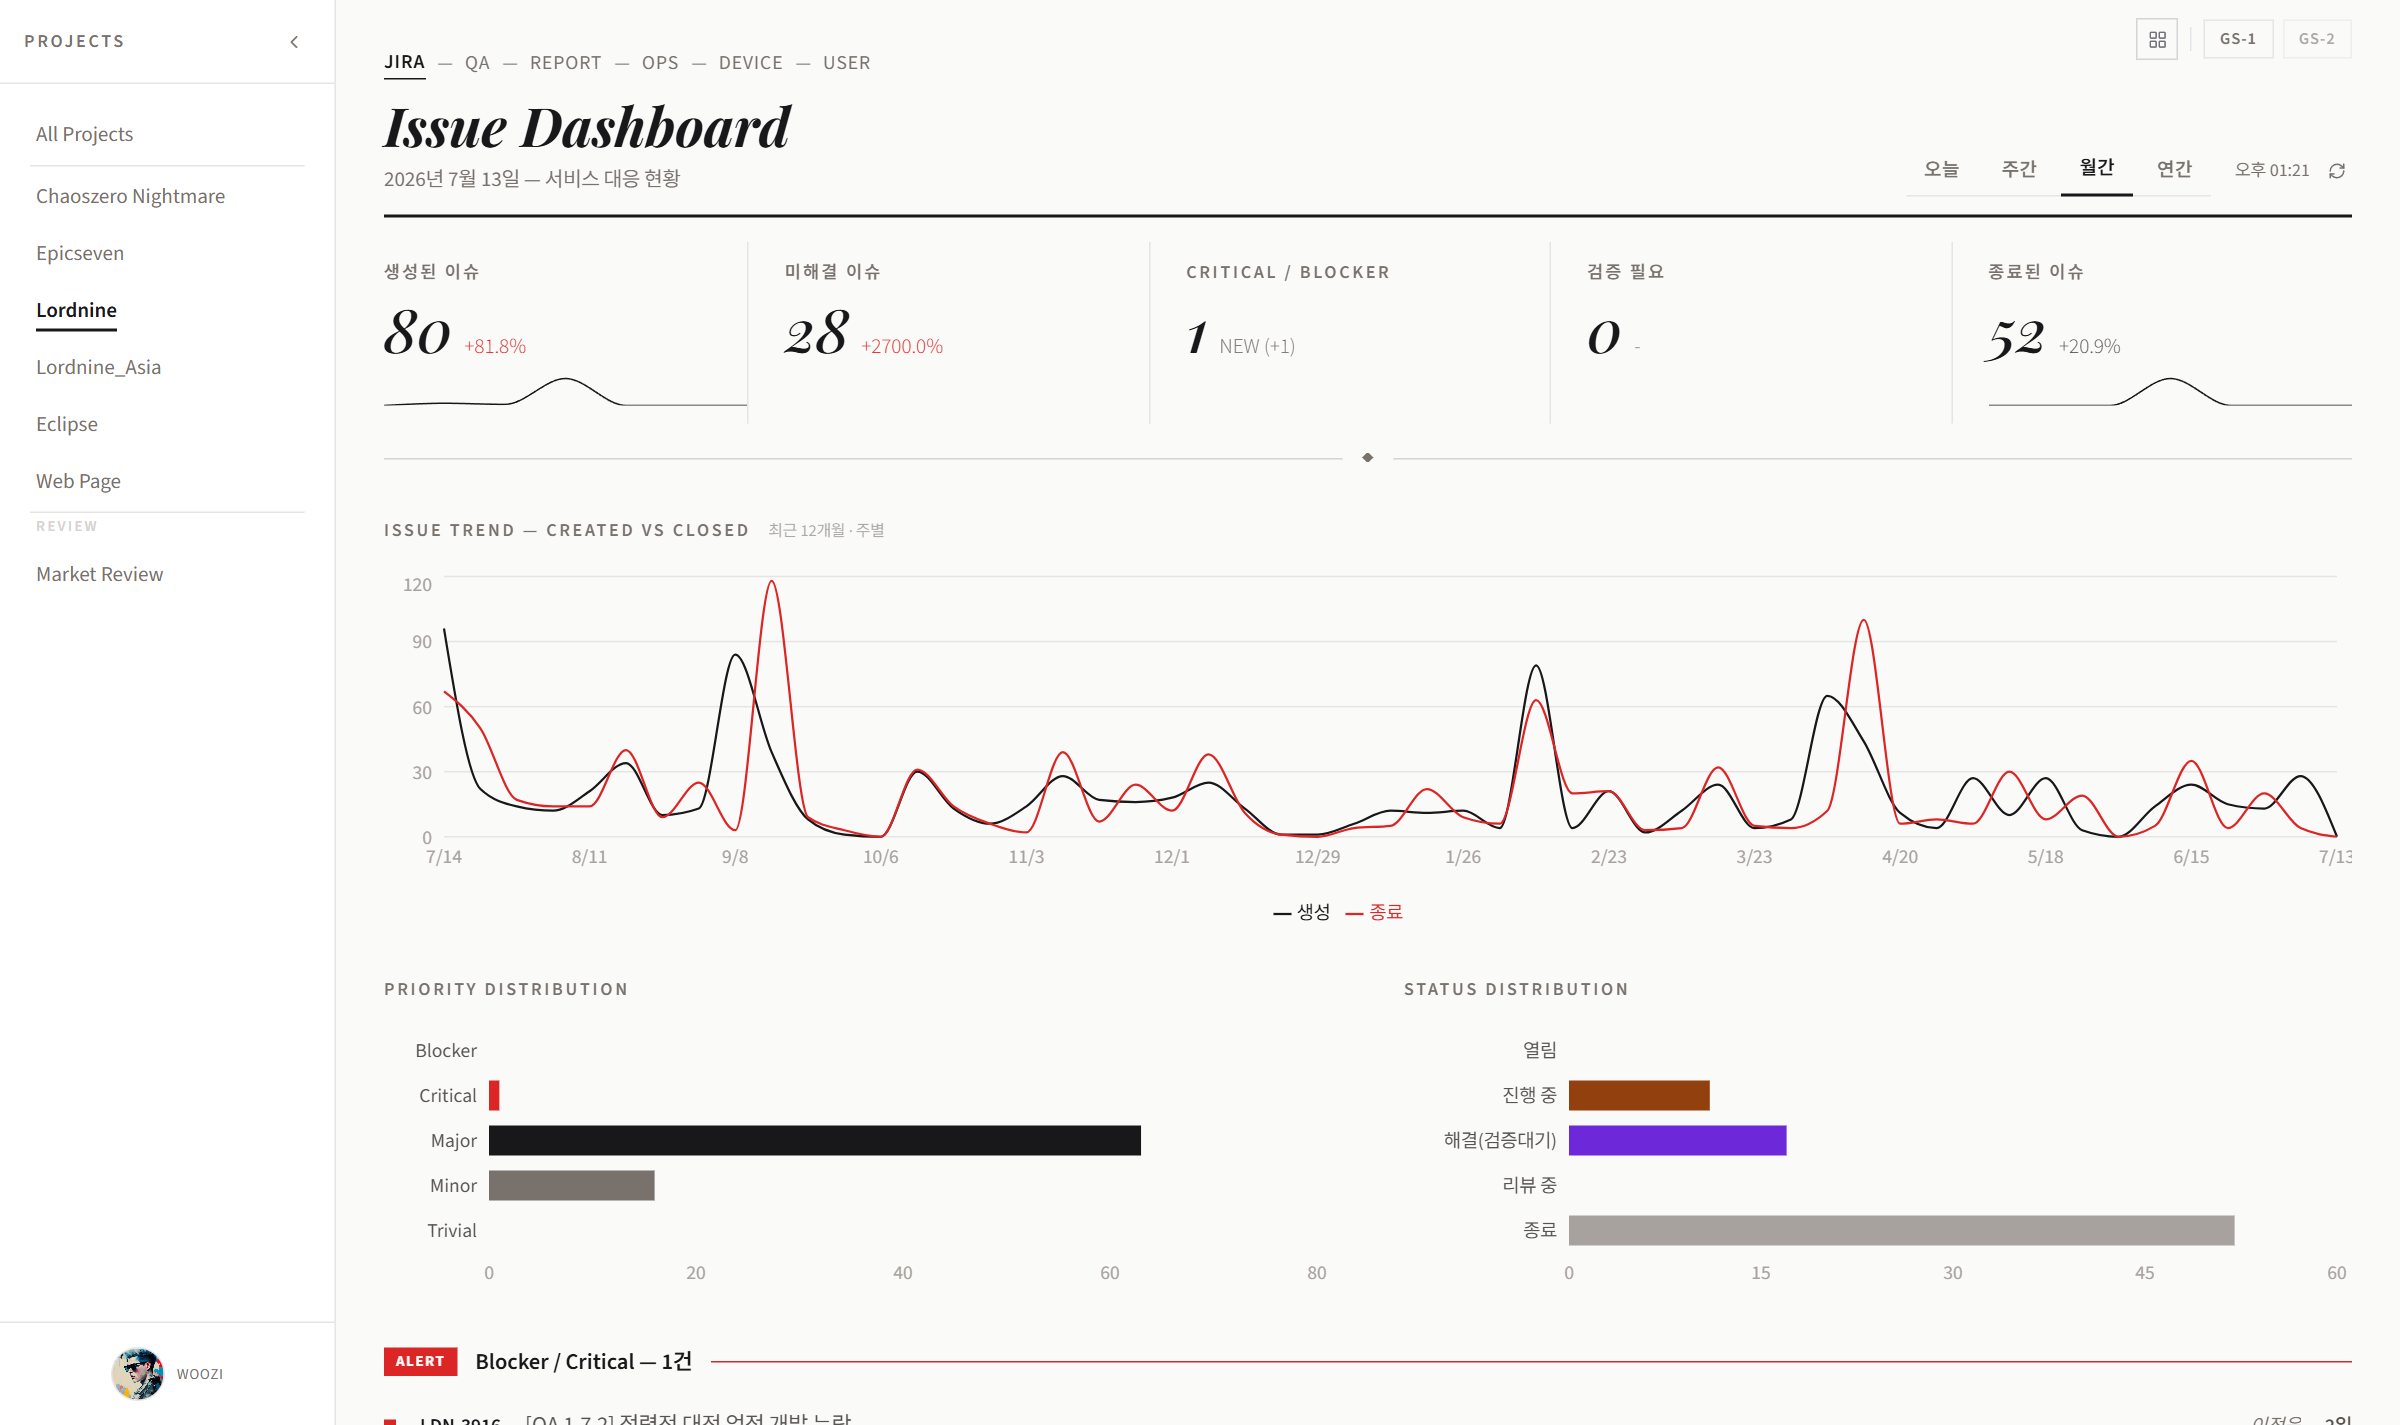
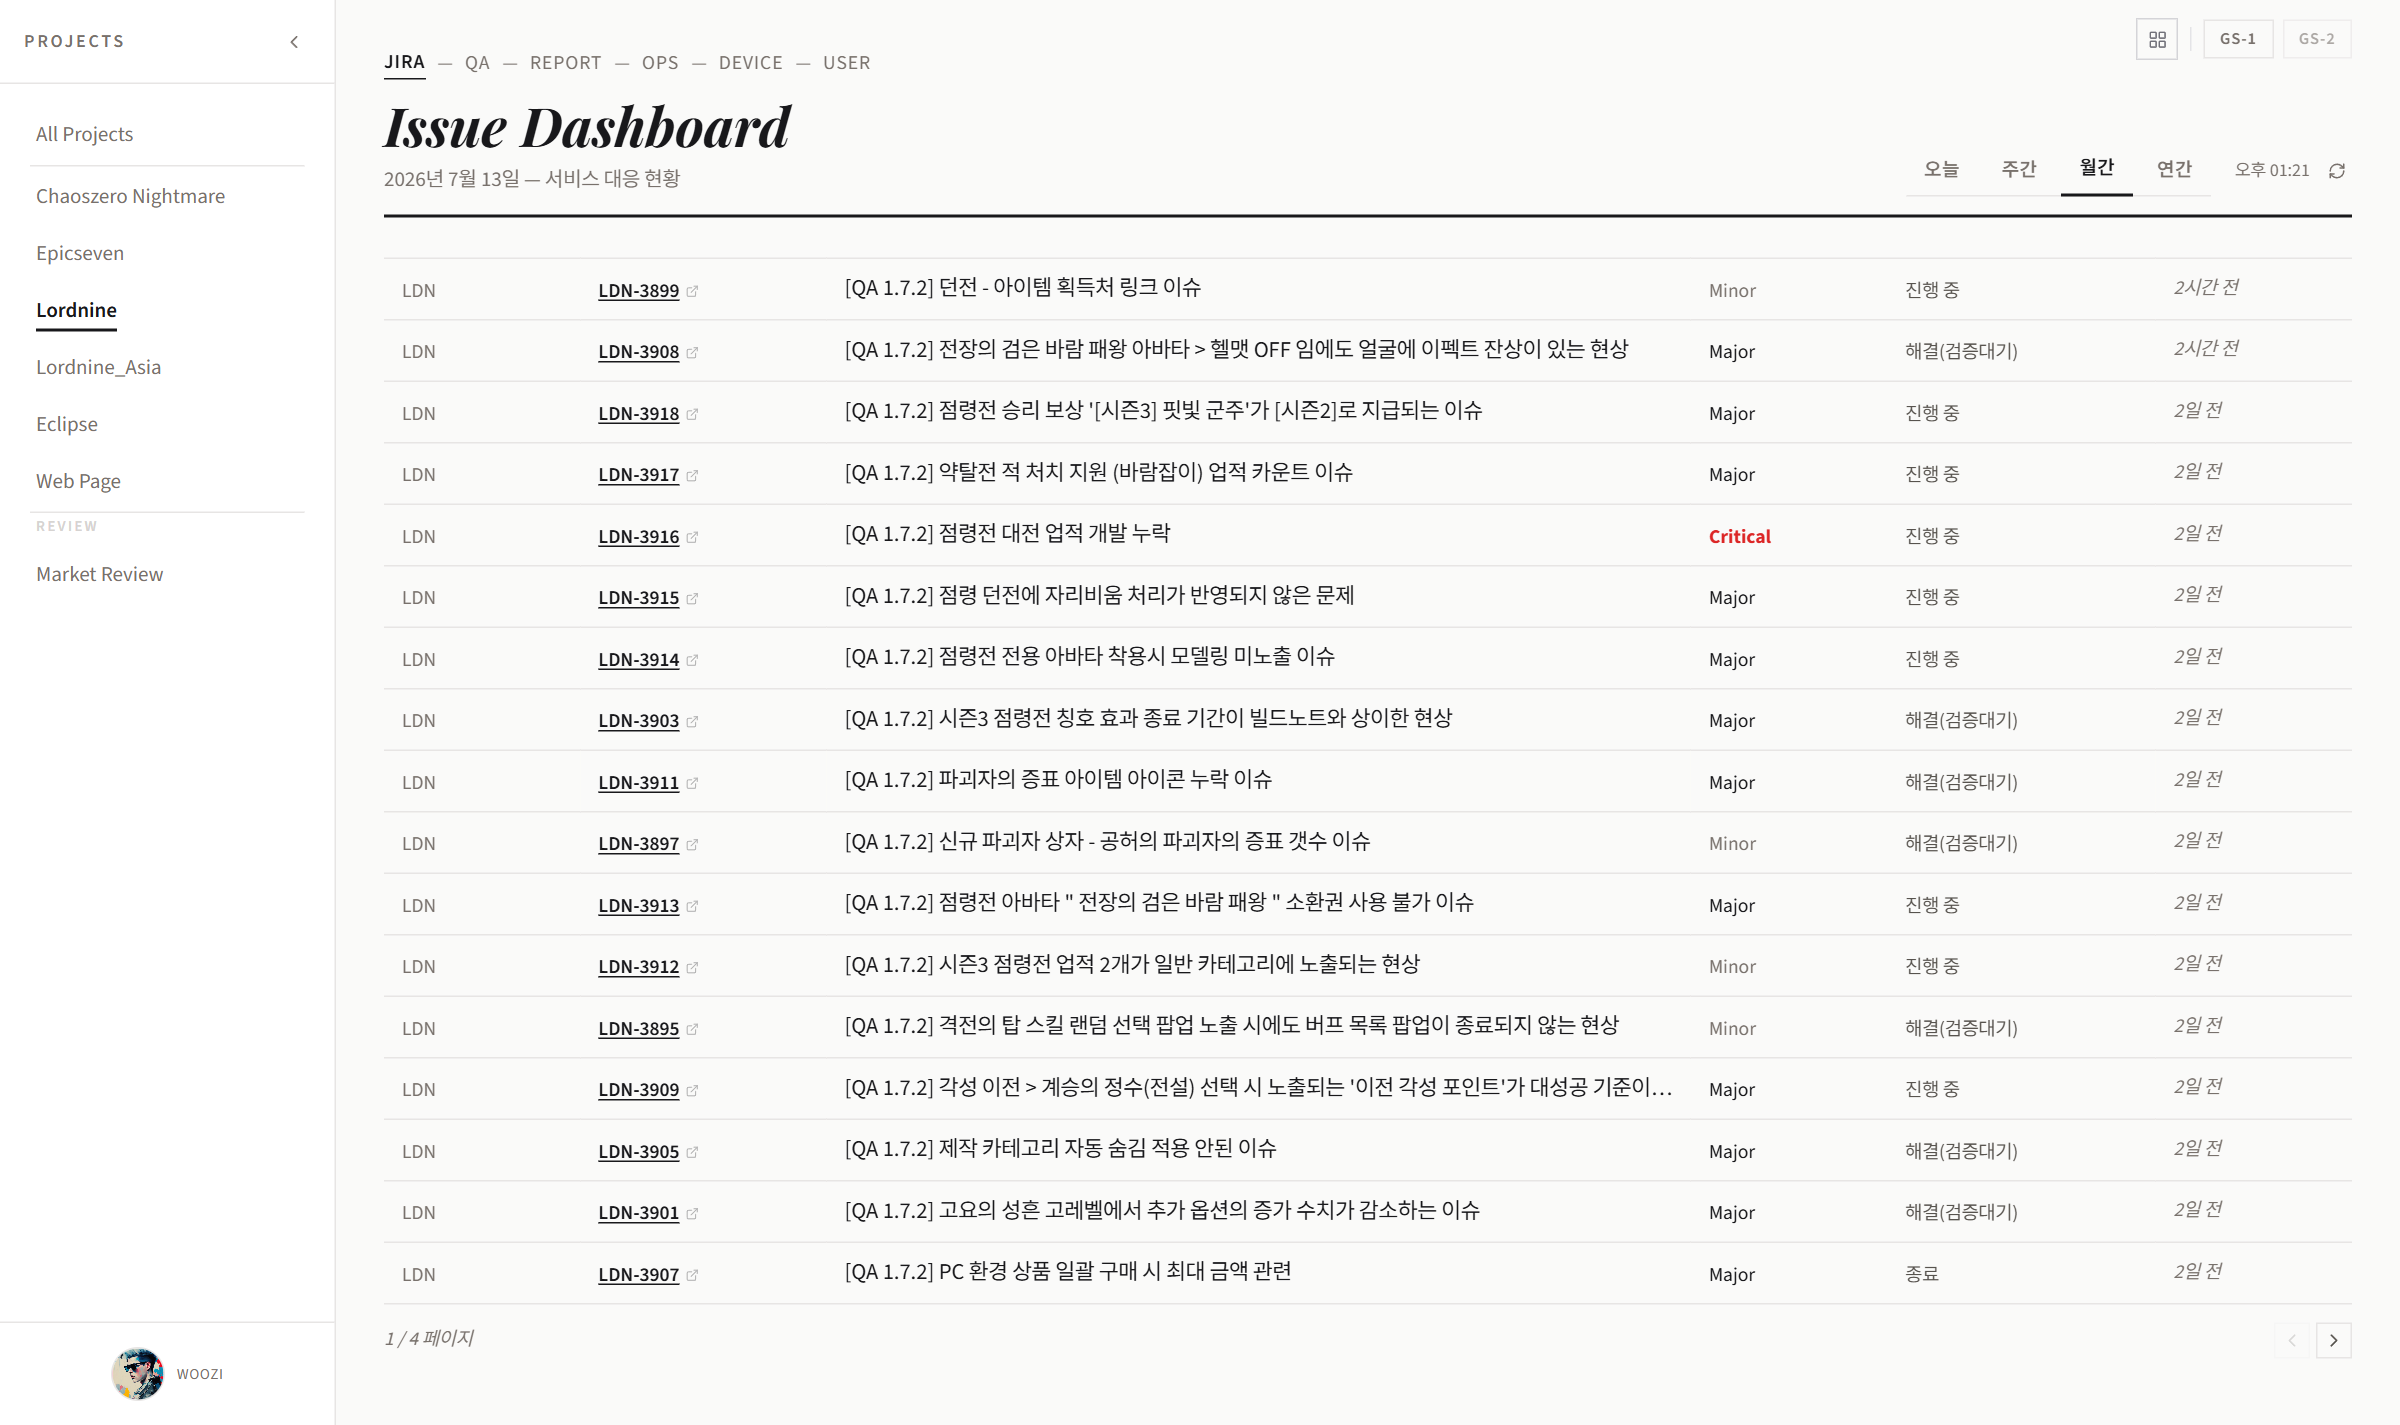
Fix QA-Dashboard guide: dedupe screenshots, expand REPORT, corrections
Replace duplicate scroll screenshots with real issue-list/lower-chart
captures, add update-analysis screenshot, detail both report types
(grade system, section structure), project count 6 to 9, remove all
hidden-tab references.

diff --git a/Etc/qa-dashboard-guide/index.html b/Etc/qa-dashboard-guide/index.html
@@ -137,13 +137,13 @@ footer.pg-footer{margin-top:60px;padding-top:24px;border-top:1px solid var(--rul
     <div class="hero-r">
       <div class="label">▸ Tabs</div>
       <div class="stat">6</div>
-      <div class="stat-d">상단 탭 (+ 숨김 1개, GS-1 전용)</div>
+      <div class="stat-d">상단 탭</div>
       <div class="label">▸ Projects</div>
-      <div class="stat">6</div>
-      <div class="stat-d">게임 프로젝트 (Epicseven · ChaosZero Nightmare 등)</div>
+      <div class="stat">9</div>
+      <div class="stat-d">게임 프로젝트 (준비 중 포함, Epicseven · ChaosZero Nightmare 등)</div>
       <div class="label">▸ Data Sources</div>
-      <div class="stat">7</div>
-      <div class="stat-d">데이터 소스 종류 (JIRA·QA·REPORT·OPS·DEVICE·QUEST·USER)</div>
+      <div class="stat">6</div>
+      <div class="stat-d">데이터 소스 종류 (JIRA·QA·REPORT·OPS·DEVICE·USER)</div>
     </div>
   </div>
   <p style="font-family:'Newsreader',serif;font-style:italic;color:var(--mute);font-size:14px">→ 오른쪽으로 넘겨서 목차부터 확인해 보세요. 키보드 ← → 로도 이동할 수 있어요.</p>
@@ -186,7 +186,7 @@ footer.pg-footer{margin-top:60px;padding-top:24px;border-top:1px solid var(--rul
     <span class="fs">③ 기간/추가 필터로 좁히기</span><span class="arrow">→</span>
     <span class="fs">④ 카드·차트·테이블 확인</span>
   </div>
-  <div class="tip"><b>우상단 고정 요소</b> — 모든 탭에서 우상단에 서비스 이동 런처(⊞), GS-1 버튼, GS-2 버튼(준비 중, 비활성)이 항상 표시됩니다. GS-1은 비밀번호 입력 시 숨겨진 QUEST 탭이 나타나는 진입점입니다.</div>
+  <div class="tip"><b>우상단 고정 요소</b> — 모든 탭에서 우상단에 서비스 이동 런처(⊞)가 항상 표시됩니다.</div>
 </section>
 
 <!-- ============ 5. JIRA 탭 ============ -->
@@ -197,7 +197,7 @@ footer.pg-footer{margin-top:60px;padding-top:24px;border-top:1px solid var(--rul
     <div>
       <img class="shot" src="img/01-jira-lordnine-monthly.png" alt="JIRA 탭 - Lordnine 월간" loading="lazy" style="margin-bottom:14px">
       <img class="shot" src="img/02-jira-scroll.png" alt="JIRA 탭 - 이슈 테이블 스크롤" loading="lazy">
-      <p class="cap">위: 요약 카드 · 이슈 추이 · 분포 차트 · 아래: 이슈 테이블(검색·필터·페이지네이션)</p>
+      <p class="cap">위: 요약 카드 · 이슈 추이 · 분포 차트 · 아래: 이슈 목록(우선순위·상태 필터 + 페이지네이션)</p>
     </div>
     <div>
       <p style="font-size:14px;margin-bottom:8px;font-weight:600">화면 구성 (위→아래)</p>
@@ -251,7 +251,7 @@ footer.pg-footer{margin-top:60px;padding-top:24px;border-top:1px solid var(--rul
     <div>
       <img class="shot" src="img/04-qa-chaoszero.png" alt="QA 탭 - ChaosZero Nightmare" loading="lazy" style="margin-bottom:14px">
       <img class="shot" src="img/05-qa-scroll.png" alt="QA 탭 - 차트 스크롤" loading="lazy">
-      <p class="cap">위: 헤더 메트릭 · Stat Block · 아래: 업데이트/핫픽스 등 차트 영역</p>
+      <p class="cap">위: 헤더 메트릭 · Stat Block · 아래: 커뮤니티 이슈(AI Insight) 등 하단 차트 영역</p>
     </div>
     <div>
       <p style="font-size:14px;margin-bottom:8px;font-weight:600">화면 구성</p>
@@ -275,21 +275,37 @@ footer.pg-footer{margin-top:60px;padding-top:24px;border-top:1px solid var(--rul
 <section class="slide" id="s8" data-title="REPORT 탭">
   <div class="mast"><div class="mast-l">QA-Dashboard<em>.</em></div><div class="mast-c">REPORT</div><div class="mast-r">08 / 14</div></div>
   <div class="section-h">REPORT 탭 <span class="badge">Service Quality · Update Analysis</span></div>
+  <p class="section-sub">한 화면에서 "서비스 품질 리포트"와 "업데이트 분석 리포트" 두 종류를 세그먼트 탭으로 전환하며 확인합니다.</p>
   <div class="shot-wrap">
-    <div><img class="shot" src="img/06-report-epicseven.png" alt="REPORT 탭 - Epicseven" loading="lazy"><p class="cap">서비스 품질 리포트 / 업데이트 분석 리포트를 세그먼트 탭으로 전환합니다.</p></div>
     <div>
-      <p style="font-size:14px;margin-bottom:8px;font-weight:600">이용 가능 게임 — 현재 2종만 제공</p>
+      <img class="shot" src="img/06-report-epicseven.png" alt="REPORT 탭 - 서비스 품질 리포트" loading="lazy" style="margin-bottom:14px">
+      <img class="shot" src="img/11-report-update-analysis.png" alt="REPORT 탭 - 업데이트 분석 리포트" loading="lazy">
+      <p class="cap">위: 서비스 품질 리포트(등급 · S1~S4 지표) · 아래: 업데이트 분석 리포트(OVERVIEW 핵심요약)</p>
+    </div>
+    <div>
+      <p style="font-size:14px;margin-bottom:8px;font-weight:600">① 서비스 품질 리포트 — 무엇을 평가하나요</p>
+      <ul class="dolist">
+        <li>업데이트(차수)마다 이슈 검출률·빌드 완성도·안정성·유저 반응(BISKIT)을 종합해 <b>A~D 등급</b>으로 산출</li>
+        <li>S1 요약(이슈/빌드/QA 리스크) · S2 유저 동향(BISKIT 감성분석) · S3 지표 추이 · S4 등급 평가(compositeScore + breakdown) 4개 섹션으로 구성</li>
+      </ul>
+      <p style="font-size:14px;margin:14px 0 8px;font-weight:600">② 업데이트 분석 리포트 — 구성 섹션</p>
+      <ul class="dolist">
+        <li>OVERVIEW(핵심요약) — AU 변화율 · NRU 변화율, PRE/POST 비교 기간, 결론 신호를 한 화면에 요약</li>
+        <li>하단 네비게이션으로 섹션 전환: 핵심요약 → 참여 분석 → (게임별) 트래픽·경제·PVP 또는 가챠 → 콘텐츠·교란요인 → 결론</li>
+        <li>교란요인(이벤트/버그 등 외부 변수)과 한계점(limitations), 참고 데이터셋 출처도 함께 표기</li>
+      </ul>
+      <p style="font-size:14px;margin:14px 0 8px;font-weight:600">이용 가능 게임 — 현재 2종만 제공</p>
       <ul class="dolist">
         <li>활성(클릭 가능): Epicseven, ChaosZero Nightmare</li>
         <li>나머지 프로젝트는 회색으로 표시되며 클릭 불가</li>
       </ul>
       <p style="font-size:14px;margin:14px 0 8px;font-weight:600">조작 순서</p>
       <ul class="dolist">
-        <li>① 좌측에서 게임 클릭(2종만 가능) → ② 하단 Archive 목록에서 날짜 클릭</li>
-        <li>③ 헤더 가운데 "서비스 품질" / "업데이트 분석" 세그먼트로 전환(데이터 없는 쪽은 비활성)</li>
-        <li>④ 필요 시 "Report 저장" 버튼으로 HTML 파일 다운로드</li>
+        <li>① 좌측에서 게임 클릭(2종만 가능) → ② 좌측 하단 Archive(날짜별 과거 리포트 목록)에서 날짜 클릭해 과거 리포트 열람</li>
+        <li>③ 헤더 가운데 "서비스 품질" / "업데이트 분석" 세그먼트로 전환(해당 날짜에 데이터 없는 쪽은 비활성)</li>
+        <li>④ 필요 시 "Report 저장" 버튼으로 현재 보고 있는 리포트를 HTML 파일로 다운로드</li>
       </ul>
-      <div class="tip"><b>완성도 지시자</b> — 헤더 우측 점 표시(품질 리포트 4개 / 분석 리포트 5개)로 데이터 완성도를 확인할 수 있습니다. 녹색=완성, 주황=일부 누락, 빨강=핵심 데이터 미충족. 정합성 검수가 완료되지 않으면 "Report 저장" 버튼이 비활성화됩니다.</div>
+      <div class="tip"><b>완성도 지시자</b> — 헤더 우측 점 표시(품질 리포트 4개 / 분석 리포트 섹션 수만큼)로 데이터 완성도를 확인할 수 있습니다. 녹색=완성, 주황=일부 누락, 빨강=핵심 데이터 미충족. 정합성 검수가 완료되지 않으면 "Report 저장" 버튼이 비활성화됩니다.</div>
     </div>
   </div>
 </section>
@@ -379,7 +395,6 @@ footer.pg-footer{margin-top:60px;padding-top:24px;border-top:1px solid var(--rul
     <tr><td>REPORT</td><td>업데이트(차수)별로 축적된 서비스 품질 리포트(등급 A~D)와 업데이트 분석 리포트(참여/가챠/콘텐츠) 아카이브</td></tr>
     <tr><td>OPS</td><td>서비스 장애(인시던트) 및 핫픽스 배포 이력 — 심각도, 복구 시간(MTTR), 발생 추이</td></tr>
     <tr><td>DEVICE</td><td>사내 테스트용 디바이스 재고 현황 및 대여 신청/승인 워크플로우</td></tr>
-    <tr><td>QUEST <span style="color:var(--mute)">(GS-1 전용)</span></td><td>길드/에피소드/멤버 등 운영 콘텐츠 관리용 자체 게시판 형태 데이터</td></tr>
     <tr><td>USER</td><td>커뮤니티·SNS 게시글을 크롤링해 언어권·권역별로 집계한 유저 반응 데이터. 감정분석/토픽 추출 결과 포함</td></tr>
   </table>
   <div class="tip"><b>업데이트 주기</b> — 각 데이터는 실시간이 아니라 주기적으로 수집·집계됩니다. 최신 이슈나 게시글이 화면에 바로 나타나지 않을 수 있으니, 급한 확인은 원본 시스템(JIRA 등)도 함께 참고하세요.</div>